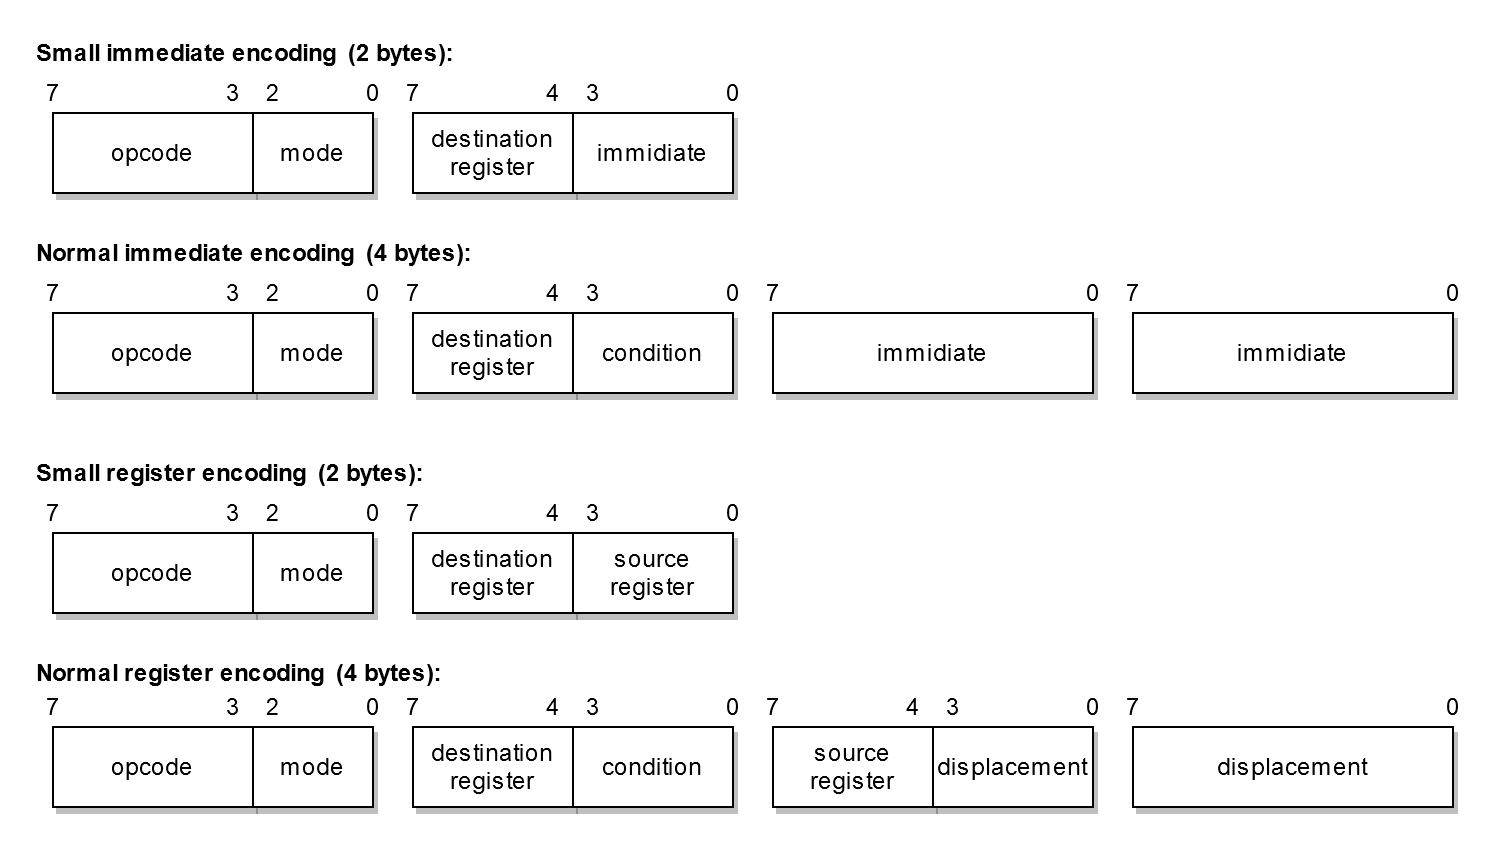
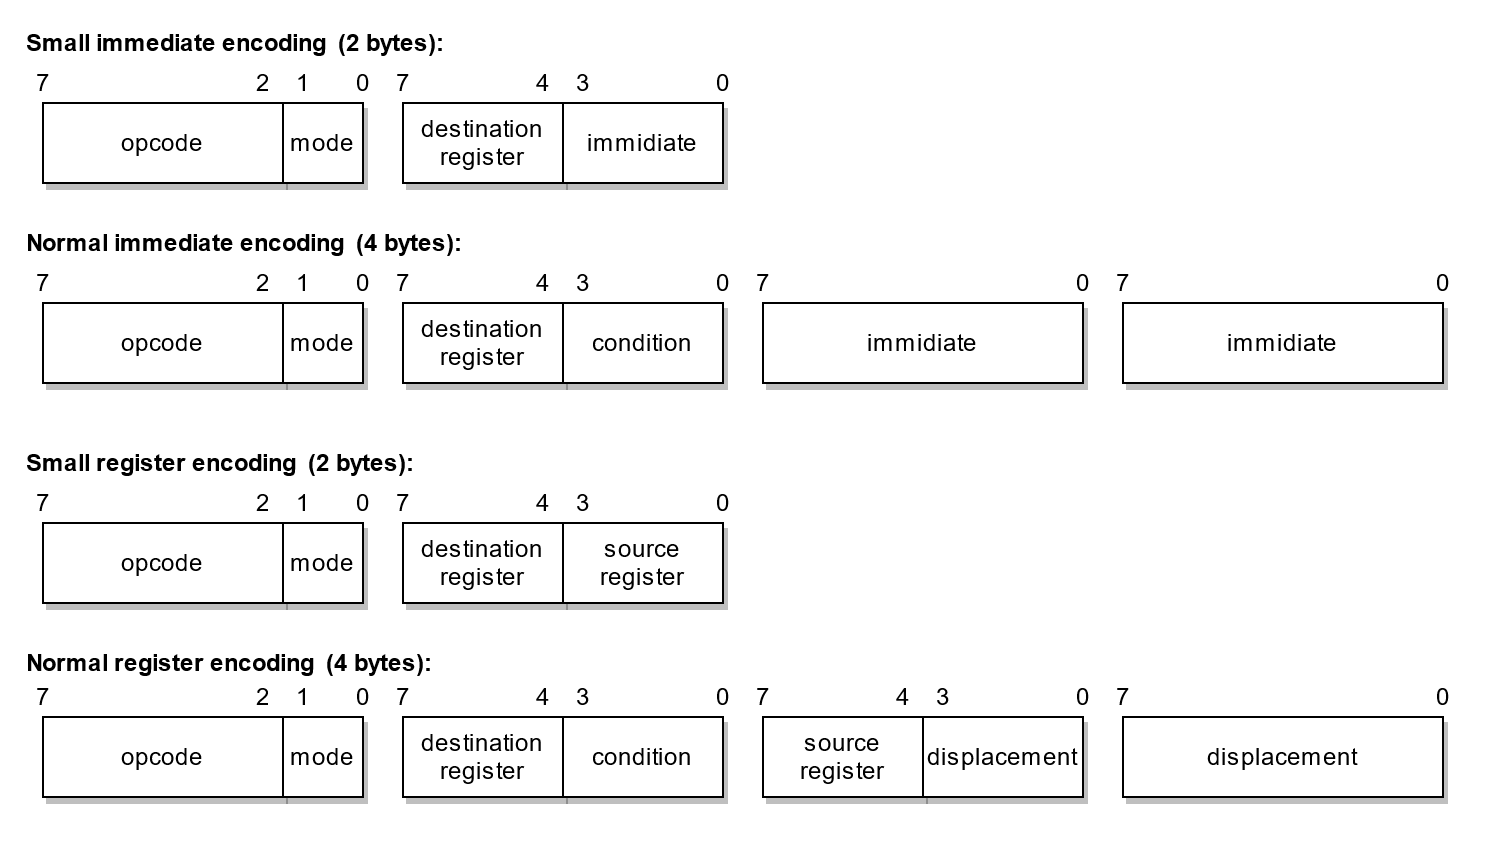
Update some stuff about instruction set

diff --git a/README.md b/README.md
@@ -1,20 +1,21 @@
 # The Zaheer 16-bit Processor
-This is an cutdown version of the Kora processor which is the sucessor to the Neva Processor that can be used as a simple microcontroller or as a simple home processor like the 6502.
+This is an cutdown version of the Kora processor which is the sucessor to the Neva Processor that can be used as a simple microcontroller or as a simple home computer processor like the 6502.
 
 ## Features
 - Simple flexible 16-bit CISC architecture with some RISC features
 - 16 registers of which 13 are general purpose
 - 16-bit address space (64 KiB)
 - 16-bit data interface with the memory
-- Small orthogonal instruction count
+- Small, simple, orthogonal, load / store instruction set
+- Room for more instruction opcodes
 - Variable instruction length (2 bytes or 4 bytes) for smaller program size
-- Every instruction can be conditional executed
+- Every instruction can be executed conditionally
 - All external I/O must be memory based
 - One processor hardware interrupt line
 
 ## Insperations
 - Many registers for an efficient calling convention: ARM, RISC-V
-- Memory read posibility in every instruction: x86
+- Memory access only in special load / store instructions: ARM, RISC-V
 - Conditional code for every instruction: ARM
 - Flags and condition combinations: x86
 - A simple processor interrupt system like the 6502
@@ -25,12 +26,11 @@ This is an cutdown version of the Kora processor which is the sucessor to the Ne
 - Reset jump address vector: `0xfffe - 0xffff`
 
 ## Instruction encoding / Modes
-Every instruction has an opcode and a mode. The mode are three bits that descrips how the instruction must be read and executed:
+Every instruction has an opcode and a mode. The mode are two bits that descrips how the instruction must be read and executed:
 
 ```
-bit 0 = Immidiate/Register
-bit 1 = Small/Normal
-bit 2 = Data/Memory read
+bit 0 = Small/Normal
+bit 1 = Immidiate/Register
 ```
 
 ![Zaheer instruction encoding](docs/instruction-encoding.png)
@@ -130,55 +130,66 @@ An instruction sets only the processor flags when the condition is set to `-` (a
 <table>
 <tr><th>#</th><th>Name</th><th>Meaning</th><th>Operation</th><th>Flags</th></tr>
 
-<tr><td colspan="5"><i>Load and store instructions (6):</i></td></tr>
+<tr><td colspan="5"><i>Special instructions (1):</i></td></tr>
 <tr><td>0</td><td><code>nop</code></td><td>No operation</td><td>-</td><td>-</td></tr>
-<tr><td>1</td><td><code>lw</code></td><td>Load word (16-bit)</td><td><code>dest = data</code></td><td><code>z</code>, <code>s</code></td></tr>
-<tr><td>2</td><td><code>lb</code></td><td>Load unsigned byte (8-bit)</td><td><code>dest = data &amp; 0x00ff</code></td><td><code>z</code>, <code>s</code></td></tr>
-<tr><td>3</td><td><code>lbs</code></td><td>Load signed byte (8-bit)</td><td><code>dest = signed(data &amp; 0x00ff)</code></td><td><code>z</code>, <code>s</code></td></tr>
-<tr><td>4</td><td><code>sw</code></td><td>Store word (16-bit) to memory <code>(mem=0)</code></td><td><code>[data] = dest</code></td><td>-</td></tr>
-<tr><td>5</td><td><code>sb</code></td><td>Store word (8-bit) to memory <code>(mem=0)</code></td><td><code>[data] = dest &amp; 0x00ff</code></td><td>-</td></tr>
+<tr><td colspan="5"></td></tr>
+
+<tr><td colspan="5"><i>Move, load and store instructions (6):</i></td></tr>
+<tr><td>1</td><td><code>mov</code></td><td>Move</td><td><code>dest = data</code></td><td><code>z</code>, <code>s</code></td></tr>
+<tr><td>2</td><td><code>lw</code></td><td>Load word (16-bit)</td><td><code>dest = [data]</code></td><td><code>z</code>, <code>s</code></td></tr>
+<tr><td>3</td><td><code>lb</code></td><td>Load signed byte (8-bit)</td><td><code>dest = signed([data] &amp; 0x00ff)</code></td><td><code>z</code>, <code>s</code></td></tr>
+<tr><td>4</td><td><code>lbu</code></td><td>Load unsigned byte (8-bit)</td><td><code>dest = [data] &amp; 0x00ff</code></td><td><code>z</code>, <code>s</code></td></tr>
+<tr><td>5</td><td><code>sw</code></td><td>Store word (16-bit) to memory</td><td><code>[data] = dest</code></td><td>-</td></tr>
+<tr><td>6</td><td><code>sb</code></td><td>Store byte (8-bit) to memory</td><td><code>[data] = dest &amp; 0x00ff</code></td><td>-</td></tr>
 <tr><td colspan="5"></td></tr>
 
 <tr><td colspan="5"><i>Arithmetic instructions (6):</i></td></tr>
-<tr><td>6</td><td><code>add</code></td><td>Add</td><td><code>dest += data</code></td><td><code>c</code>, <code>z</code>, <code>s</code>, <code>o</code></td></tr>
-<tr><td>7</td><td><code>adc</code></td><td>Add with carry</td><td><code>dest += data + carry</code></td><td><code>c</code>, <code>z</code>, <code>s</code>, <code>o</code></td></tr>
-<tr><td>8</td><td><code>sub</code></td><td>Subtract</td><td><code>dest -= data</code></td><td><code>c</code>, <code>z</code>, <code>s</code>, <code>o</code></td></tr>
-<tr><td>9</td><td><code>sbb</code></td><td>Subtract with borrow</td><td><code>dest -= data + carry</code></td><td><code>c</code>, <code>z</code>, <code>s</code>, <code>o</code></td></tr>
-<tr><td>10</td><td><code>neg</code></td><td>Negate</td><td><code>dest = -data</code></td><td><code>c</code>, <code>z</code>, <code>s</code>, <code>o</code></td></tr>
-<tr><td>11</td><td><code>cmp</code></td><td>Arithmetic compare (sub)</td><td><code>dest - data (always set flags)</code></td><td><code>c</code>, <code>z</code>, <code>s</code>, <code>o</code></td></tr>
+<tr><td>7</td><td><code>add</code></td><td>Add</td><td><code>dest += data</code></td><td><code>c</code>, <code>z</code>, <code>s</code>, <code>o</code></td></tr>
+<tr><td>8</td><td><code>adc</code></td><td>Add with carry</td><td><code>dest += data + carry</code></td><td><code>c</code>, <code>z</code>, <code>s</code>, <code>o</code></td></tr>
+<tr><td>9</td><td><code>sub</code></td><td>Subtract</td><td><code>dest -= data</code></td><td><code>c</code>, <code>z</code>, <code>s</code>, <code>o</code></td></tr>
+<tr><td>10</td><td><code>sbb</code></td><td>Subtract with borrow</td><td><code>dest -= data + carry</code></td><td><code>c</code>, <code>z</code>, <code>s</code>, <code>o</code></td></tr>
+<tr><td>11</td><td><code>neg</code></td><td>Negate</td><td><code>dest = -data</code></td><td><code>c</code>, <code>z</code>, <code>s</code>, <code>o</code></td></tr>
+<tr><td>12</td><td><code>cmp</code></td><td>Arithmetic compare (sub)</td><td><code>dest - data (always set flags)</code></td><td><code>c</code>, <code>z</code>, <code>s</code>, <code>o</code></td></tr>
 <tr><td colspan="5"></td></tr>
 
 <tr><td colspan="5"><i>Bitwise instructions (8):</i></td></tr>
-<tr><td>12</td><td><code>and</code></td><td>Logical and</td><td><code>dest &amp;= data</code></td><td><code>z</code>, <code>s</code></td></tr>
-<tr><td>13</td><td><code>or</code></td><td>Logical or</td><td><code>dest |= data</code></td><td><code>z</code>, <code>s</code></td></tr>
-<tr><td>14</td><td><code>xor</code></td><td>Logical xor</td><td><code>dest ^= data</code></td><td><code>z</code>, <code>s</code></td></tr>
-<tr><td>15</td><td><code>not</code></td><td>Logical not</td><td><code>dest = ~data</code></td><td><code>z</code>, <code>s</code></td></tr>
-<tr><td>16</td><td><code>test</code></td><td>Bitwise compare (and)</td><td><code>dest &amp; data (always set flags)</code></td><td><code>z</code>, <code>s</code></td></tr>
-<tr><td>17</td><td><code>shl</code></td><td>Logical shift left</td><td><code>dest &lt;&lt;= data &amp; 15</code></td><td><code>z</code>, <code>s</code></td></tr>
-<tr><td>18</td><td><code>shr</code></td><td>Logical shift right</td><td><code>dest &gt;&gt;= data &amp; 15</code></td><td><code>z</code>, <code>s</code></td></tr>
-<tr><td>19</td><td><code>sar</code></td><td>Arithmetic shift right</td><td><code>dest &gt;&gt;&gt;= data &amp; 15</code></td><td><code>z</code>, <code>s</code></td></tr>
+<tr><td>13</td><td><code>and</code></td><td>Logical and</td><td><code>dest &amp;= data</code></td><td><code>z</code>, <code>s</code></td></tr>
+<tr><td>14</td><td><code>or</code></td><td>Logical or</td><td><code>dest |= data</code></td><td><code>z</code>, <code>s</code></td></tr>
+<tr><td>15</td><td><code>xor</code></td><td>Logical xor</td><td><code>dest ^= data</code></td><td><code>z</code>, <code>s</code></td></tr>
+<tr><td>16</td><td><code>not</code></td><td>Logical not</td><td><code>dest = ~data</code></td><td><code>z</code>, <code>s</code></td></tr>
+<tr><td>17</td><td><code>test</code></td><td>Bitwise compare (and)</td><td><code>dest &amp; data (always set flags)</code></td><td><code>z</code>, <code>s</code></td></tr>
+<tr><td>18</td><td><code>shl</code></td><td>Logical shift left</td><td><code>dest &lt;&lt;= data &amp; 15</code></td><td><code>z</code>, <code>s</code></td></tr>
+<tr><td>19</td><td><code>shr</code></td><td>Logical shift right</td><td><code>dest &gt;&gt;= data &amp; 15</code></td><td><code>z</code>, <code>s</code></td></tr>
+<tr><td>20</td><td><code>sar</code></td><td>Arithmetic shift right</td><td><code>dest &gt;&gt;&gt;= data &amp; 15</code></td><td><code>z</code>, <code>s</code></td></tr>
 <tr><td colspan="5"></td></tr>
 
-<tr><td colspan="5"><i>Stack instructions (4):</i></td></tr>
-<tr><td>20</td><td><code>push</code></td><td>Push word (16-bit) on the stack <code>(mem=0)</code></td><td><code>[sp] = data, sp -= 2</code></td><td><code>z</code>, <code>s</code></td></tr>
-<tr><td>21</td><td><code>pop</code></td><td>Pop word (16-bit) of the stack <code>(mem=1)</code></td><td><code>dest = [sp + 2], sp += 2</code></td><td><code>z</code>, <code>s</code></td></tr>
-<tr><td>22</td><td><code>call</code></td><td>Call relative subroutine <code>(dest=0, mem=0)</code></td><td><code>[sp] = ip, sp -= 2, ip += data</code></td><td>-</td></tr>
-<tr><td>22</td><td><code>call</code></td><td>Call absolute subroutine <code>(dest=1, mem=0)</code></td><td><code>[sp] = ip, sp -= 2, ip = data</code></td><td>-</td></tr>
-<tr><td>23</td><td><code>ret</code></td><td>Return from subroutine <code>(mem=1)</code></td><td><code>ip = [sp + 2], sp += 2 + data</code></td><td>-</td></tr>
+<tr><td colspan="5"><i>Stack instructions (5):</i></td></tr>
+<tr><td>21</td><td><code>push</code></td><td>Push word (16-bit) on the stack</td><td><code>[sp] = data, sp -= 2</code></td><td><code>z</code>, <code>s</code></td></tr>
+<tr><td>22</td><td><code>pop</code></td><td>Pop word (16-bit) of the stack</td><td><code>dest = [sp + 2], sp += 2</code></td><td><code>z</code>, <code>s</code></td></tr>
+<tr><td>23</td><td><code>call</code></td><td>Call absolute subroutine</td><td><code>[sp] = ip, sp -= 2, ip = data</code></td><td>-</td></tr>
+<tr><td>24</td><td><code>callr</code></td><td>Call relative subroutine</td><td><code>[sp] = ip, sp -= 2, ip += data</code></td><td>-</td></tr>
+<tr><td>25</td><td><code>ret</code></td><td>Return from subroutine</td><td><code>ip = [sp + 2], sp += 2 + data</code></td><td>-</td></tr>
 <tr><td colspan="5"></td></tr>
 
-<tr><td colspan="5"><i>Reserved instructions (8):</i></td></tr>
-<tr><td>24/31</td><td><i>Reserved</i></td><td>-</td><td>-</td><td>-</td></tr>
+<tr><td colspan="5"><i>Reserved instructions (38):</i></td></tr>
+<tr><td>26/63</td><td><i>Reserved</i></td><td>-</td><td>-</td><td>-</td></tr>
 </table>
 
 ## Pseudo instructions
-Some instructions are assembled as diffrent instructions because they don't exists:
+Some instructions are assembled as different instructions because they don't exists:
 
 ```
-mov t0, 5   ->      lw t0, 5
-jmp 4       ->      mov ip, 4
-inc t0      ->      add t0, 1
-dec t0      ->      sub t0, 1
+mov t0, word [5] -> lw t0, 5
+
+jmp 4            -> mov ip, 4
+jmp.e 4          -> moveq ip, 4
+jmpr -4          -> sub ip, 4
+jmpr.g 4         -> add.g ip, 4
+
+inc t0           -> add t0, 1
+dec t0           -> sub t0, 1
+
+halt             -> or flags, 0xff
 ```
 
 ## Simple loop assembly example
@@ -188,7 +199,7 @@ This is a simple example of a loop program and the instruction sizes are in the 
     mov t0, 0       ; 2 bytes
 repeat:
     cmp t0, 10      ; 2 bytes
-    jmpeq done      ; 4 bytes (condition code) -> moveq ip, done
+    jmp.e done      ; 4 bytes (condition code) -> moveq ip, done
     inc t0          ; 2 bytes -> add t0, 1
     jmp repeat      ; 2 bytes
 done:
